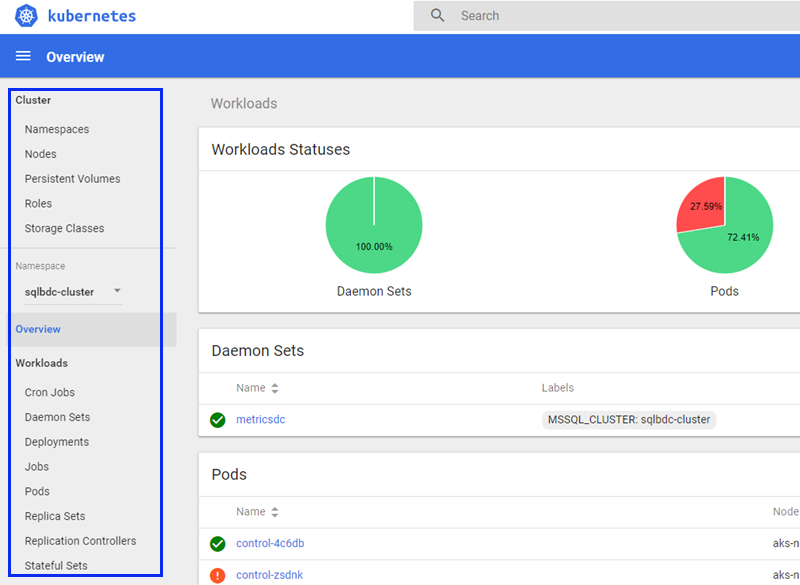
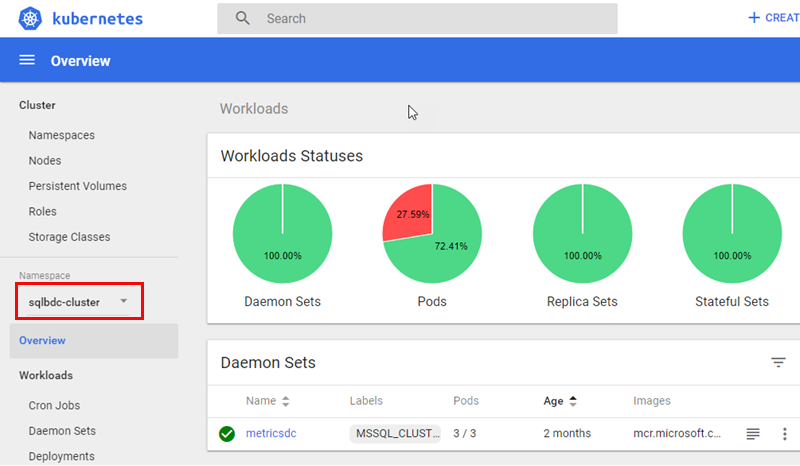
New blog-post - Roundup Week 16, 2020

diff --git a/content/posts/2020-04-19-interesting-stuff---week-16-2020.md b/content/posts/2020-04-19-interesting-stuff---week-16-2020.md
@@ -1,0 +1,119 @@
+---
+type: post
+layout: "post"
+title: Interesting Stuff - Week 16, 2020
+author: nielsb
+date: 2020-04-19T09:59:40+02:00
+comments: true
+highlight: true
+draft: false
+categories:
+  - roundup
+tags:
+  - data science
+  - distributed computing
+  - Kafka
+  - ksqlDB
+  - Coyote
+description: Kafka, monitor Kafka, ksqlDB, Coyote webinar, time series forecasting, and other interesting topics.
+keywords:
+  - data science
+  - distributed computing
+  - Kafka
+  - ksqlDB
+  - Coyote   
+---
+
+Throughout the week, I read a lot of blog-posts, articles, and so forth, that has to do with things that interest me:
+
+* data science
+* data in general
+* distributed computing
+* SQL Server
+* transactions (both db as well as non db)
+* and other "stuff"
+
+This blog-post is the "roundup" of the things that have been most interesting to me, for the week just ending.
+
+<!--more-->
+
+## Data Science
+
+* [Forecasting Best Practices, from Microsoft][1]. It is a long time since I have linked to something from [Revolution Analytics][re]. That is now rectified by this post where [David][revod] points to resources from Microsoft around best practices around time series forecasting. Have a look, quite a lot of cool stuff there!
+* [Rendezvous Architecture for Data Science in Production][4]. In this post the author discusses one of the biggest problems in Data Science today how to productionise your models. The answer to that problem is something called the Rendezvous Architecture. 
+
+## Distributed Computing
+
+* [Better design, implementation, and testing of async systems with Coyote][3]. In the [Interesting Stuff - Week 13, 2020][2] I wrote about Coyote, the framework for building reliable asynchronous software. The link here is a registration page for a webinar April 30 about Coyote. If you are interested in things like async and distributed systems, then I suggest you register. See you there!
+
+## Event Driven Architecture
+
+* [Event-Driven Data Collection][5]. I linked to some posts about Event Driven Architecture in the [Interesting Stuff - Week 14, 2020][6] post, and the post linked to here is by the same author as the posts in the [week 14][6] roundup. In this post, the author discusses how to populate databases from event-driven data collection.
+
+## Streaming
+
+* [What’s New in Apache Kafka 2.5][7]. Apache Kafka version 2.5 was released earlier this week, and the post here discusses new "stuff" in the release.
+* [Real-Time Small Business Intelligence with ksqlDB][8]. In this post, the author makes the point that the Kafka ecosystem is not only for the Netflix:es in this world, but that by using ksqlDB even smaller companies can gain insights into their data.
+* [A quick and dirty way to monitor data arriving on Kafka][9]. The title of this post describes the post perfectly. [Robin Moffat][rmoff] shows a way to quickly and easily monitor Kafka data, and be alerted if something happens. Actually be alerted if something does not happen (data arriving).
+
+## ~ Finally
+
+That's all for this week. I hope you enjoy what I did put together. If you have ideas for what to cover, please comment on this post or [ping][ma] me. Most importantly, stay safe out there!
+
+[ma]: mailto:niels.it.berglund@gmail.com
+[mp]: https://blog.acolyer.org
+[iq]: https://www.infoq.com/
+[ew]: http://sqlonice.com/
+[re]: http://blog.revolutionanalytics.com
+[sqsk]: https://www.sqlskills.com
+[mdaveyblog]: https://mdavey.wordpress.com/
+[charlblog]: https://charlla.com/
+
+[jovpop]: https://twitter.com/JovanPop_MSFT
+[bobw]: https://twitter.com/bobwardms
+[revod]: https://twitter.com/revodavid
+[lonny]: https://twitter.com/sqL_handLe
+[ewtw]: https://twitter.com/sqlOnIce
+[buckw]: https://twitter.com/BuckWoodyMSFT
+[mattw]: https://twitter.com/matthewwarren
+[murba]: https://twitter.com/muratdemirbas
+[daveda]: https://twitter.com/davidthecoder
+[adcol]: https://twitter.com/adriancolyer
+[jesrod]: https://twitter.com/jrdothoughts
+[tomaz]: https://twitter.com/tomaz_tsql
+[dataart]: https://twitter.com/dataartisans
+[luis]: https://twitter.com/luis_de_sousa
+[benstop]: https://twitter.com/benstopford
+[conflu]: https://twitter.com/confluentinc
+[tylert]: https://twitter.com/tyler_treat
+[andrewng]: https://twitter.com/AndrewYNg
+[lawr]: https://twitter.com/bytezn
+[jue]: https://twitter.com/b0rk
+[yan]: https://twitter.com/theburningmonk
+[danny]: https://twitter.com/g9yuayon
+[rmoff]: https://twitter.com/rmoff
+[ryansw]: https://twitter.com/ryanswanstrom
+[pabloc]: https://twitter.com/pabloc_ds
+[mklep]: https://twitter.com/martinkl
+[mdavey]: https://twitter.com/matt_davey
+[jboner]: https://twitter.com/jboner
+[joeduff]: https://twitter.com/funcOfJoe
+[charl]: https://twitter.com/charllamprecht
+[dbricks]: https://twitter.com/databricks
+[adsit]: https://twitter.com/SitnikAdam
+[vicky]: https://twitter.com/vickyharp
+[dscentral]: https://twitter.com/DataScienceCtrl
+[natemc]: https://twitter.com/natemcmaster
+[ads]: https://twitter.com/azuredatastudio
+[travw]: https://twitter.com/radtravis
+[emilk]: https://twitter.com/IsTheArchitect
+
+[1]: https://blog.revolutionanalytics.com/2020/04/forecasting-best-practices-from-microsoft.html
+[2]: {{< relref "2020-03-29-interesting-stuff---week-13-2020.md" >}}
+[3]: https://note.microsoft.com/MSR-Webinar-Coyote-Registration-Live.html
+[4]: https://towardsdatascience.com/rendezvous-architecture-for-data-science-in-production-79c4d48f12b
+[5]: https://medium.com/phi-skills/event-driven-data-collection-d662a7db52a5
+[6]: {{< relref "2020-04-05-interesting-stuff---week-14-2020.md" >}}
+[7]: https://www.confluent.io/blog/apache-kafka-2-5-latest-version-updates/
+[8]: https://www.confluent.io/blog/real-time-business-intelligence-using-ksqldb/
+[9]: https://rmoff.net/2020/04/16/a-quick-and-dirty-way-to-monitor-data-arriving-on-kafka/

diff --git a/_drafts/a-lap-around-sql-server-2019-big-data-cluster.md b/_drafts/a-lap-around-sql-server-2019-big-data-cluster.md
@@ -35,7 +35,7 @@ Therefore, in this post, (and maybe some follow-up posts), we look at what **SQL
 
 Before we "drill into" what a Big Data Cluster is, let us discuss why Microsoft felt the need for BDC. It all comes down to data:
 
-We are getting more and more data, and to stay competitive we need to be able to use that data; to integrate it, manage it and analyze it.
+We are getting more and more data, and to stay competitive, we need to be able to use that data; to integrate it, manage it and analyze it.
 
 The problem is that the data comes in all shapes and types; relational data, NoSQL, files, etc., etc. So how do we integrate and analyze this data?
 
@@ -102,6 +102,8 @@ As mentioned above, the nodes contain your application's pods. The nodes contain
 * `kube-proxy` - the proxy routes network traffic and manages IP addressing.
 
 Each node also contains a container runtime, which is the component that allows containerized applications to run.
+
+In k8s, we also have the notion of `StatefulSet`, which is a workload API used to manage stateful applications. It manages the deployment and scaling of a set of Pods and provides guarantees about the ordering and uniqueness of these Pods. This is important in the context of the BDC since we really want the BDC to have stateful services - think databases.
 
 #### Managing a k8s Cluster
 
@@ -231,46 +233,41 @@ So, in *Figure 5* we see the overview page of the k8s dashboard. In the left, ou
 * Replica and Stateful Sets.
 * and more.
 
-By clicking on any of the entries you drill further down into that specific component. However, when I look at the dashboard I do not see anything that refers to a SQL Server Big Data Cluster at all, what is up with that?
+By clicking on any of the entries you drill further down into that specific component. However, when I look at the dashboard I do not see anything that refers to a SQL Server Big Data Cluster at all. I mean, I am certain that there should be able to see something under Stateful Sets pods for example:
+
+![](/images/posts/bdc-lap-around-dash-default-ns.png)
+
+**Figure 6:** *Empty Stateful Sets*
+
+In *Figure 6* we see the result when I click on Stateful Sets, (outlined in red), in the dashboards Web UI: nothing. What is up with that?
 
 Well, cast your mind back to when you created and deployed your cluster - at that time you gave the BDC cluster a name. When deploying the cluster, a k8s namespace gets created with that name, and the BDC is created and deployed into that namespace. Look again at *Figure 5* and you see, outlined in red, a drop-down containing the various k8s namespaces in this k8s cluster:
 
 ![](/images/posts/bdc-lap-around-bdc-dash3.png)
 
-**Figure 6:** *Kubernetes Dashboard*
+**Figure 7:** *Kubernetes Dashboard*
 
 When I expand the drop-down, I see some more namespaces in addition to the `default` namespace, and among them, outlined in red, the namespace for the BDC cluster: `sqlbdc-cluster`:
 
 ![](/images/posts/bdc-lap-around-bdc-dash4.png)
 
-**Figure 7:** *Overview BDC Cluster*
+**Figure 8:** *Overview BDC Cluster*
 
-When I click on "my" namespace, I see an overview as in *Figure 7*
+When I click on "my" namespace, (once again outlined in red), I see an overview as in *Figure 8*. When we now are in the BDC namespace let us revisit the Stateful Sets as in *Figure 6*:
 
+![](/images/posts/bdc-lap-around-bdc-dash5.png)
 
+**Figure 9:** *BDC Stateful Sets*
 
-
-
-From here, I can now look at various components of the cluster; such as:
-
-
-And yes, as we see in *Figure 7*, there are some issues with some of my pods.
-
-
-
-
-
-
-
-
-
-
-az aks browse --resource-group rg-ignite-sqlbdc --name kubesqlbdc-cluster
-
-
-
+What we see in *Figure 9* is definitely more like it, as we can see quite a few stateful sets, and amongst them; `master`, (outlined in red). Master is the stateful set for the SQL Server master instance in a BDC, and we look at `master` in a bit.
 
 #### `kubectl`
+
+So the k8s dashboard is one way to manage and get information about a BDC, another way is `kubectl` which I mentioned above. 
+
+So above I said that if I would execute `kubectl get pods` against my test cluster I would not see anything as I have not deployed anything on that cluster. If I did the same against the `kubesqlbdc-cluster` however:
+
+
 
 To begin with we can use `kubectl`, as I mentioned above, to get information about the k8s cluster. Above I said that a k8s cluster consists of, among other things, services, and in a k8s cluster services expose applications both internally and to the outside world.
 
